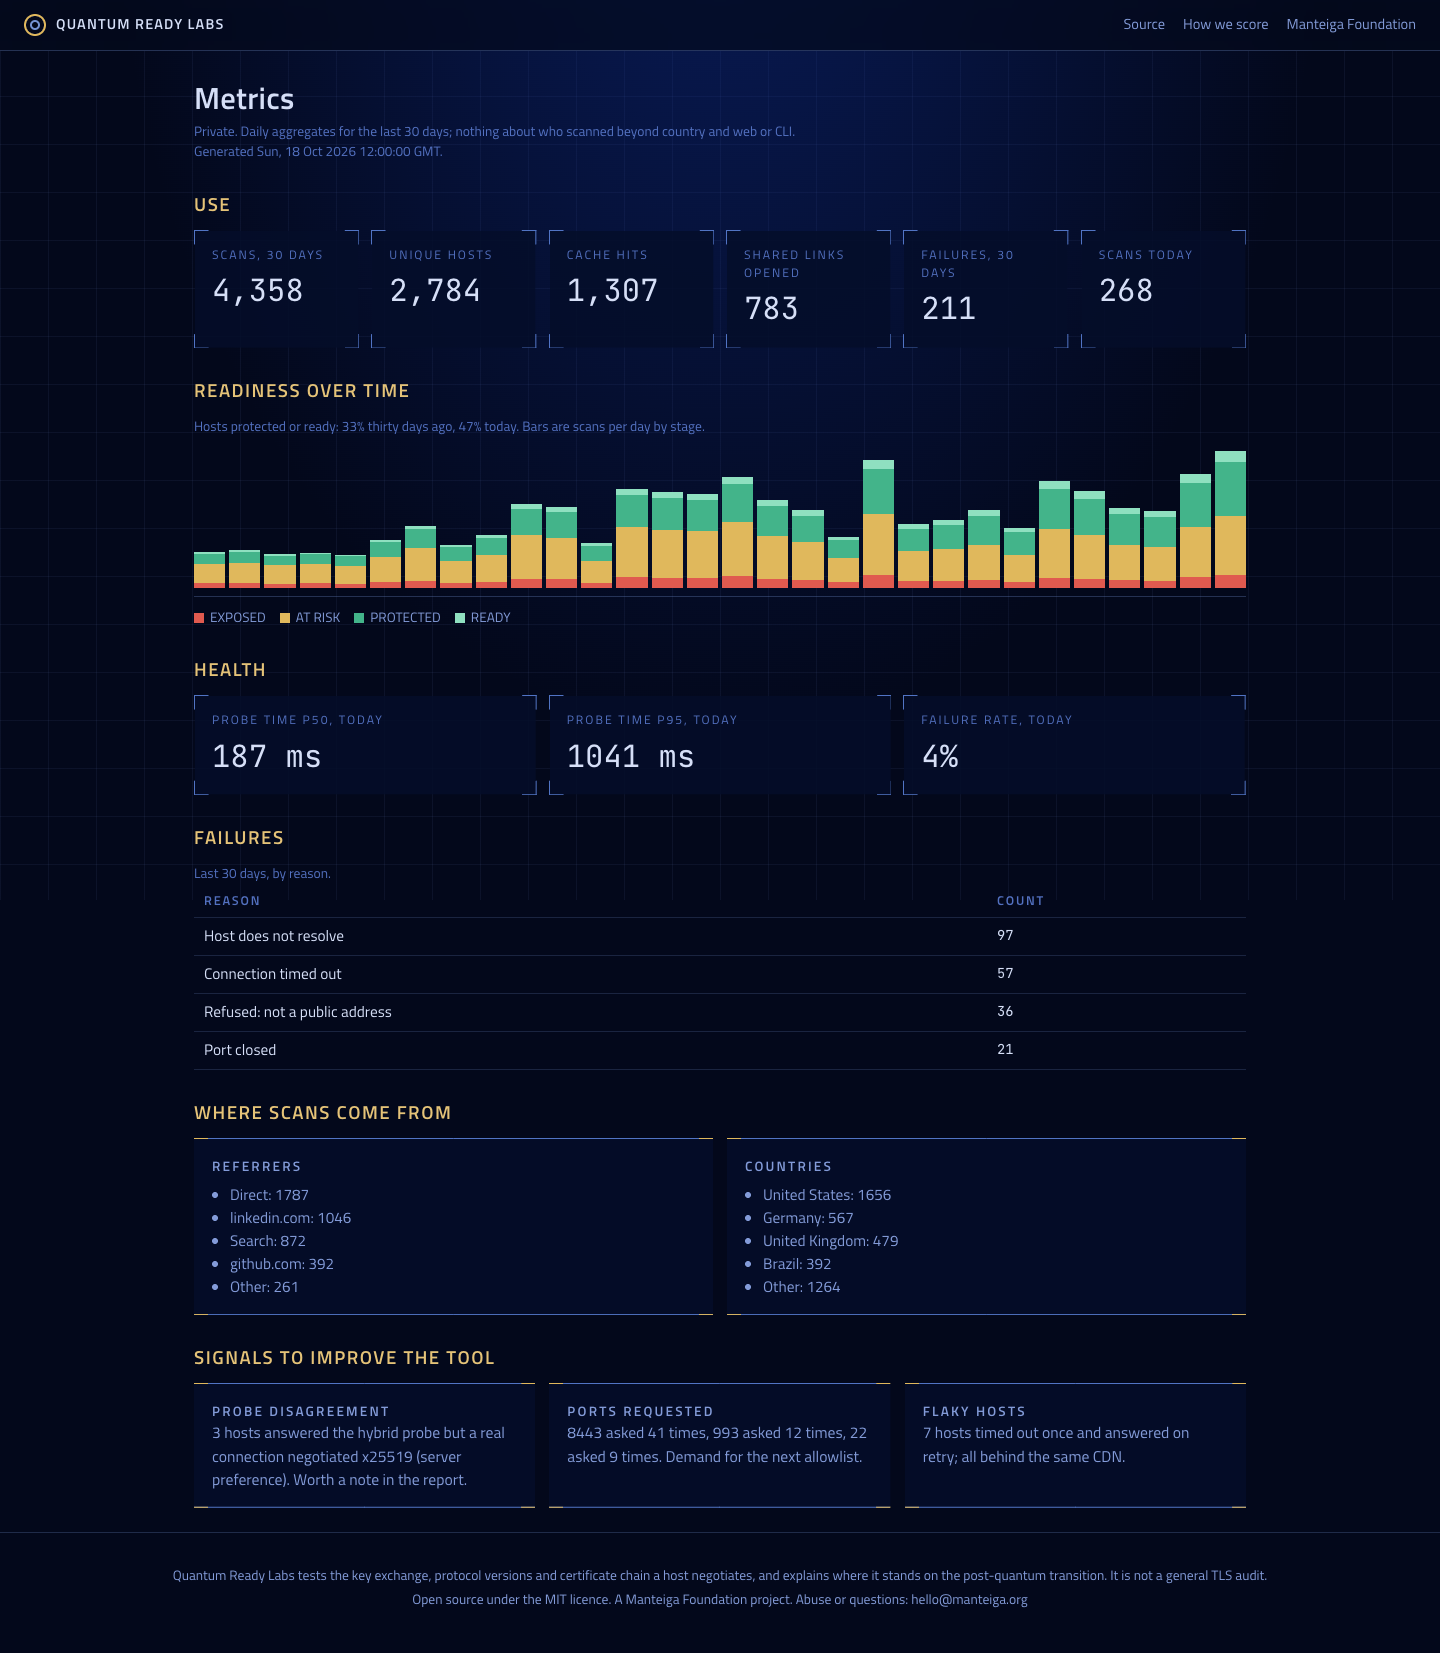
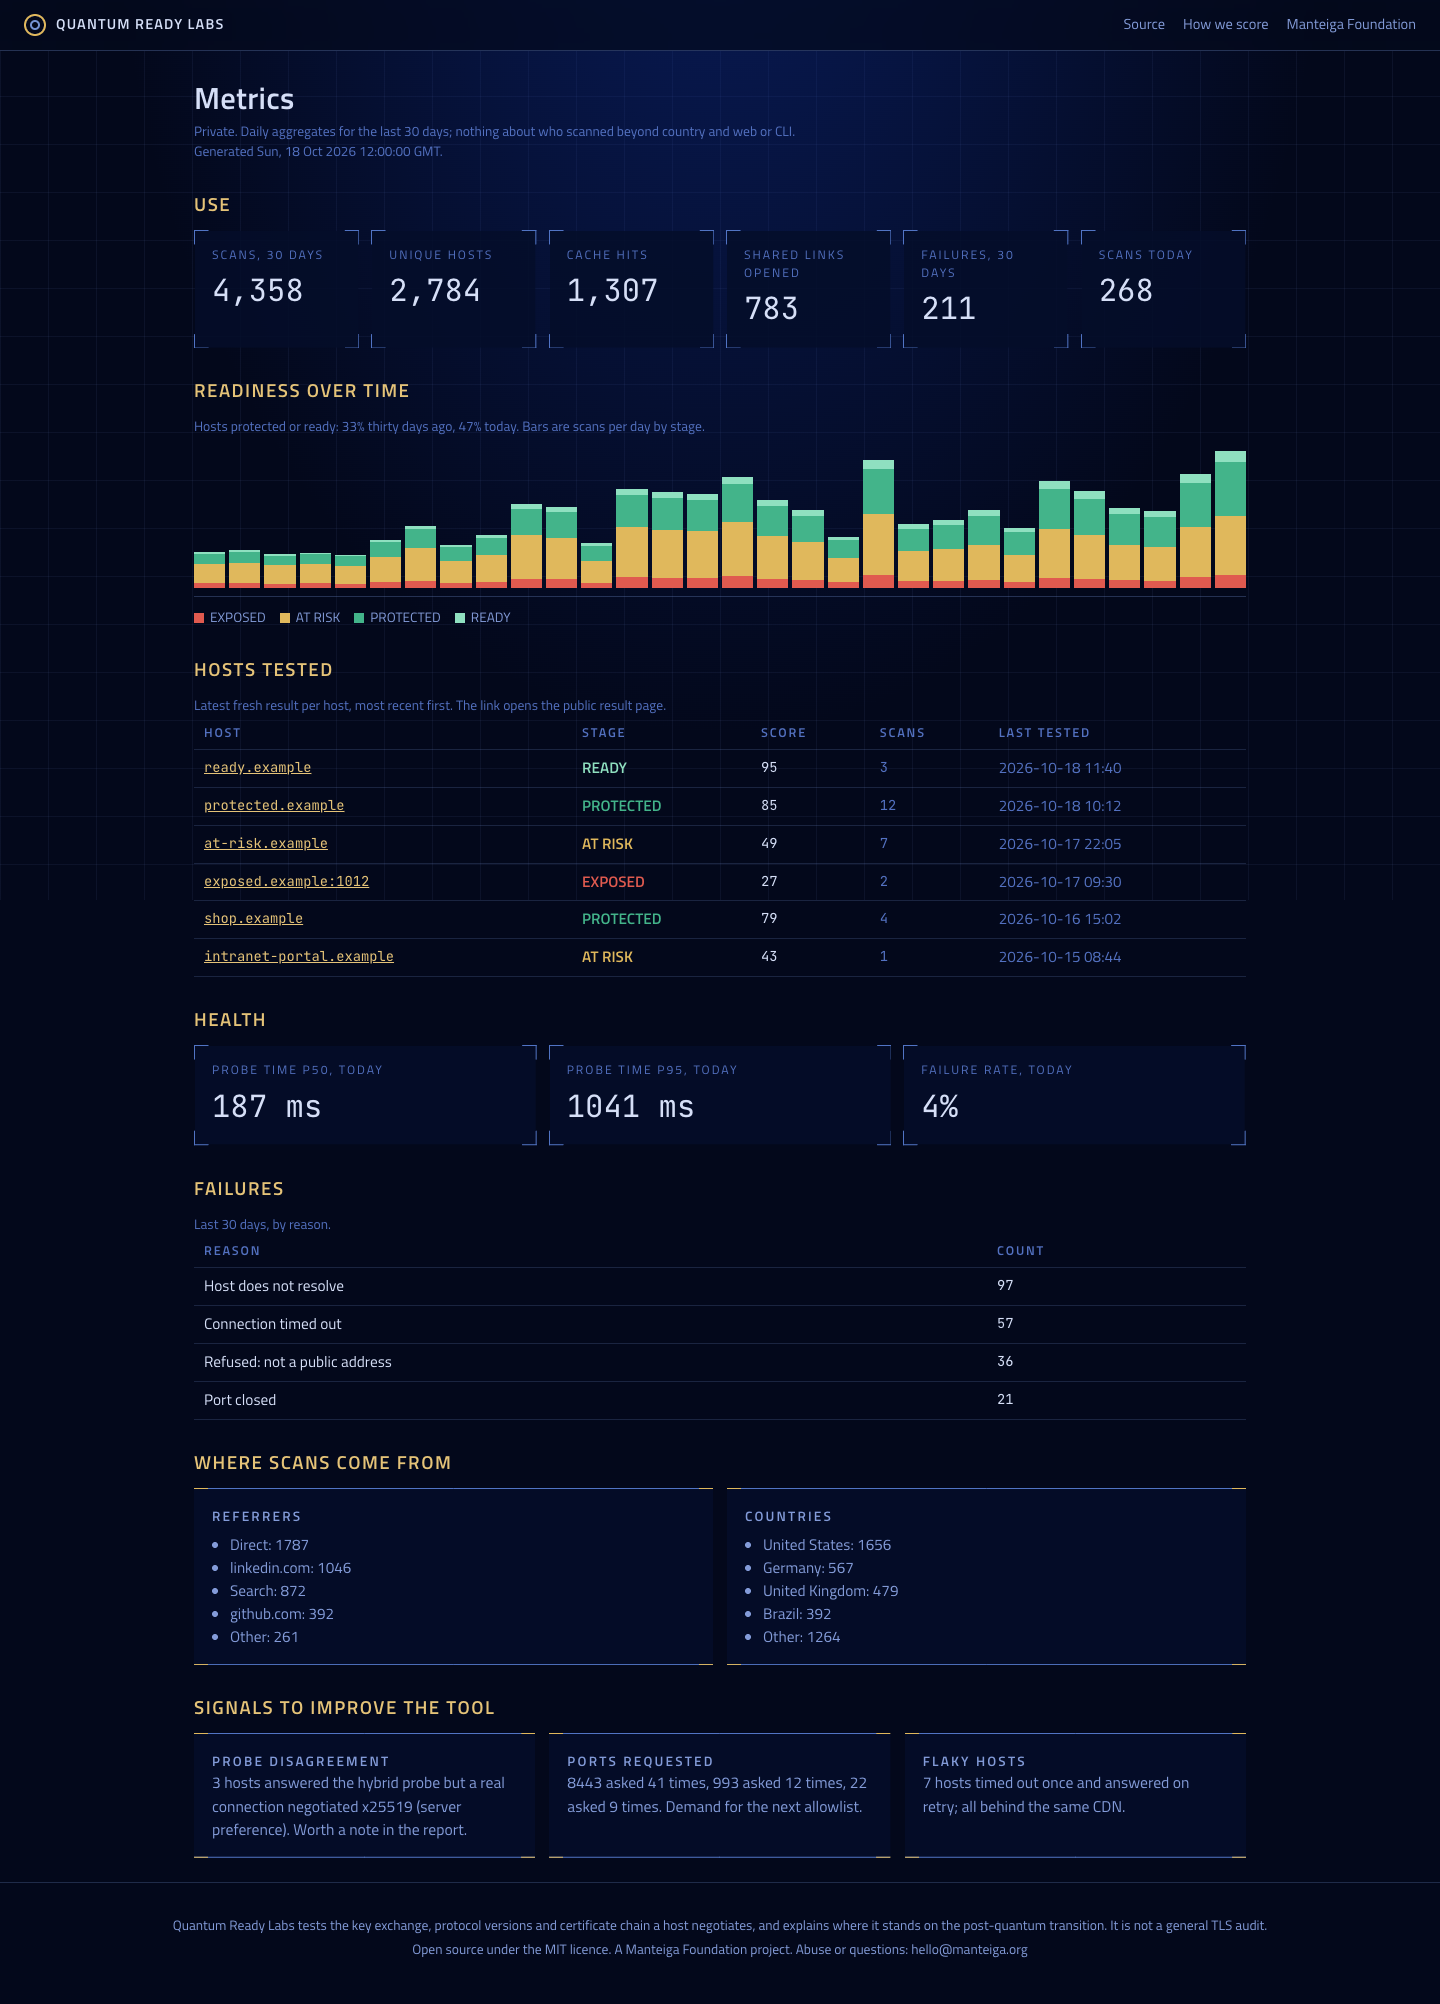
Metrics: a table of the hosts tested (latest fresh result per host, stage, score, scan count, last tested), each linking to its public result page; the edge aggregates it from D1, the demo view from the fixtures. Browser test asserts rows, stage words, scores and the /r/<id> links

diff --git a/web/src/views/Metrics.tsx b/web/src/views/Metrics.tsx
@@ -84,6 +84,51 @@ export function Metrics() {
       </section>
 
       <section className="section">
+        <h2>Hosts tested</h2>
+        <p className="notice">Latest fresh result per host, most recent first. The link opens the public result page.</p>
+        <div className="table-wrap">
+          <table className="table">
+            <thead>
+              <tr>
+                <th>Host</th>
+                <th>Stage</th>
+                <th>Score</th>
+                <th>Scans</th>
+                <th>Last tested</th>
+              </tr>
+            </thead>
+            <tbody>
+              {data.hosts.map((h) => (
+                <tr key={`${h.host}:${h.port}`} data-testid="host-row">
+                  <td className="mono">
+                    <a href={`/r/${h.lastId}`}>
+                      {h.host}
+                      {h.port !== 443 ? `:${h.port}` : ''}
+                    </a>
+                  </td>
+                  <td data-testid="host-stage" style={{ color: `var(--stage-${h.stage})`, fontWeight: 600 }}>
+                    {STAGE_LABEL[h.stage as keyof typeof STAGE_LABEL] ?? h.stage}
+                  </td>
+                  <td className="mono" data-testid="host-score">
+                    {h.score}
+                  </td>
+                  <td className="mono dim">{h.scans}</td>
+                  <td className="dim">{new Date(h.lastAt).toISOString().slice(0, 16).replace('T', ' ')}</td>
+                </tr>
+              ))}
+              {data.hosts.length === 0 && (
+                <tr>
+                  <td colSpan={5} className="dim">
+                    No hosts tested in the last 30 days.
+                  </td>
+                </tr>
+              )}
+            </tbody>
+          </table>
+        </div>
+      </section>
+
+      <section className="section">
         <h2>Health</h2>
         <div className="counts">
           <Count label="Probe time p50, today" value={`${last.p50} ms`} />

diff --git a/web/src/fixtures.ts b/web/src/fixtures.ts
@@ -43,6 +43,17 @@ export interface MetricsData {
   referrers: { source: string; count: number }[];
   countries: { country: string; count: number }[];
   signals: { label: string; detail: string }[];
+  hosts: HostRow[];
+}
+
+export interface HostRow {
+  host: string;
+  port: number;
+  stage: string;
+  score: number;
+  scans: number;
+  lastId: string;
+  lastAt: string;
 }
 
 export function demoMetrics(now = new Date('2026-10-18T12:00:00Z')): MetricsData {
@@ -98,6 +109,14 @@ export function demoMetrics(now = new Date('2026-10-18T12:00:00Z')): MetricsData
       { country: 'United Kingdom', count: Math.round(totals.scans * 0.11) },
       { country: 'Brazil', count: Math.round(totals.scans * 0.09) },
       { country: 'Other', count: Math.round(totals.scans * 0.29) },
+    ],
+    hosts: [
+      { host: 'ready.example', port: 443, stage: 'ready', score: 95, scans: 3, lastId: 'demo-ready', lastAt: days[29].date + 'T11:40:00Z' },
+      { host: 'protected.example', port: 443, stage: 'protected', score: 85, scans: 12, lastId: 'demo-protected', lastAt: days[29].date + 'T10:12:00Z' },
+      { host: 'at-risk.example', port: 443, stage: 'at-risk', score: 49, scans: 7, lastId: 'demo-at-risk', lastAt: days[28].date + 'T22:05:00Z' },
+      { host: 'exposed.example', port: 1012, stage: 'exposed', score: 27, scans: 2, lastId: 'demo-exposed', lastAt: days[28].date + 'T09:30:00Z' },
+      { host: 'shop.example', port: 443, stage: 'protected', score: 79, scans: 4, lastId: 'demo-protected', lastAt: days[27].date + 'T15:02:00Z' },
+      { host: 'intranet-portal.example', port: 443, stage: 'at-risk', score: 43, scans: 1, lastId: 'demo-at-risk', lastAt: days[26].date + 'T08:44:00Z' },
     ],
     signals: [
       { label: 'Probe disagreement', detail: '3 hosts answered the hybrid probe but a real connection negotiated x25519 (server preference). Worth a note in the report.' },

diff --git a/worker/src/index.ts b/worker/src/index.ts
@@ -264,6 +264,17 @@ async function metricsRoute(request: Request, env: Env): Promise<Response> {
   const opens = await env.DB.prepare('SELECT COUNT(*) AS n FROM opens WHERE created_at >= ?').bind(since).first<{ n: number }>();
   const ports = await env.DB.prepare("SELECT detail, COUNT(*) AS n FROM failures WHERE reason = 'Port not allowed' AND created_at >= ? GROUP BY detail ORDER BY n DESC LIMIT 5").bind(since).all<{ detail: string; n: number }>();
 
+  const hosts = await env.DB.prepare(
+    `SELECT s.host, s.port, s.stage, s.score, s.id AS lastId, s.created_at AS lastAt,
+            (SELECT COUNT(*) FROM scans c WHERE c.host = s.host AND c.port = s.port AND c.created_at >= ?) AS scans
+     FROM scans s
+     WHERE s.cache_hit = 0 AND s.created_at >= ?
+       AND s.created_at = (SELECT MAX(created_at) FROM scans m WHERE m.host = s.host AND m.port = s.port AND m.cache_hit = 0)
+     ORDER BY s.created_at DESC LIMIT 300`,
+  )
+    .bind(since, since)
+    .all<{ host: string; port: number; stage: string; score: number; lastId: string; lastAt: number; scans: number }>();
+
   const failMap = new Map(failuresByDay.results.map((r) => [r.day, r.n]));
   const sorted = timings.results.map((t) => t.ms);
   const pct = (p: number) => (sorted.length ? sorted[Math.min(sorted.length - 1, Math.floor((p / 100) * sorted.length))] : 0);
@@ -283,6 +294,7 @@ async function metricsRoute(request: Request, env: Env): Promise<Response> {
       p95: 0,
     })),
     failures: failures.results,
+    hosts: hosts.results.map((h) => ({ ...h, lastAt: new Date(h.lastAt).toISOString() })),
     referrers: referrers.results,
     countries: countries.results,
     signals: [

diff --git a/tests/web.test.ts b/tests/web.test.ts
@@ -137,6 +137,13 @@ describe('view 3: the private metrics view', () => {
     await see(page.getByRole('heading', { name: 'Readiness over time' }));
     await see(page.getByRole('heading', { name: 'Failures' }));
     expect(await page.getByTestId('trend-day').count()).toBeGreaterThan(7);
+    await see(page.getByRole('heading', { name: 'Hosts tested' }));
+    const rows = page.getByTestId('host-row');
+    expect(await rows.count()).toBeGreaterThan(3);
+    const first = rows.first();
+    await see(first.getByTestId('host-stage'), /EXPOSED|AT RISK|PROTECTED|READY/);
+    await see(first.getByTestId('host-score'), /^\s*\d+\s*$/);
+    expect(await first.getByRole('link').getAttribute('href')).toMatch(/^\/r\/[A-Za-z0-9_-]+$/);
     expect(errors).toEqual([]);
     await page.context().close();
   });
